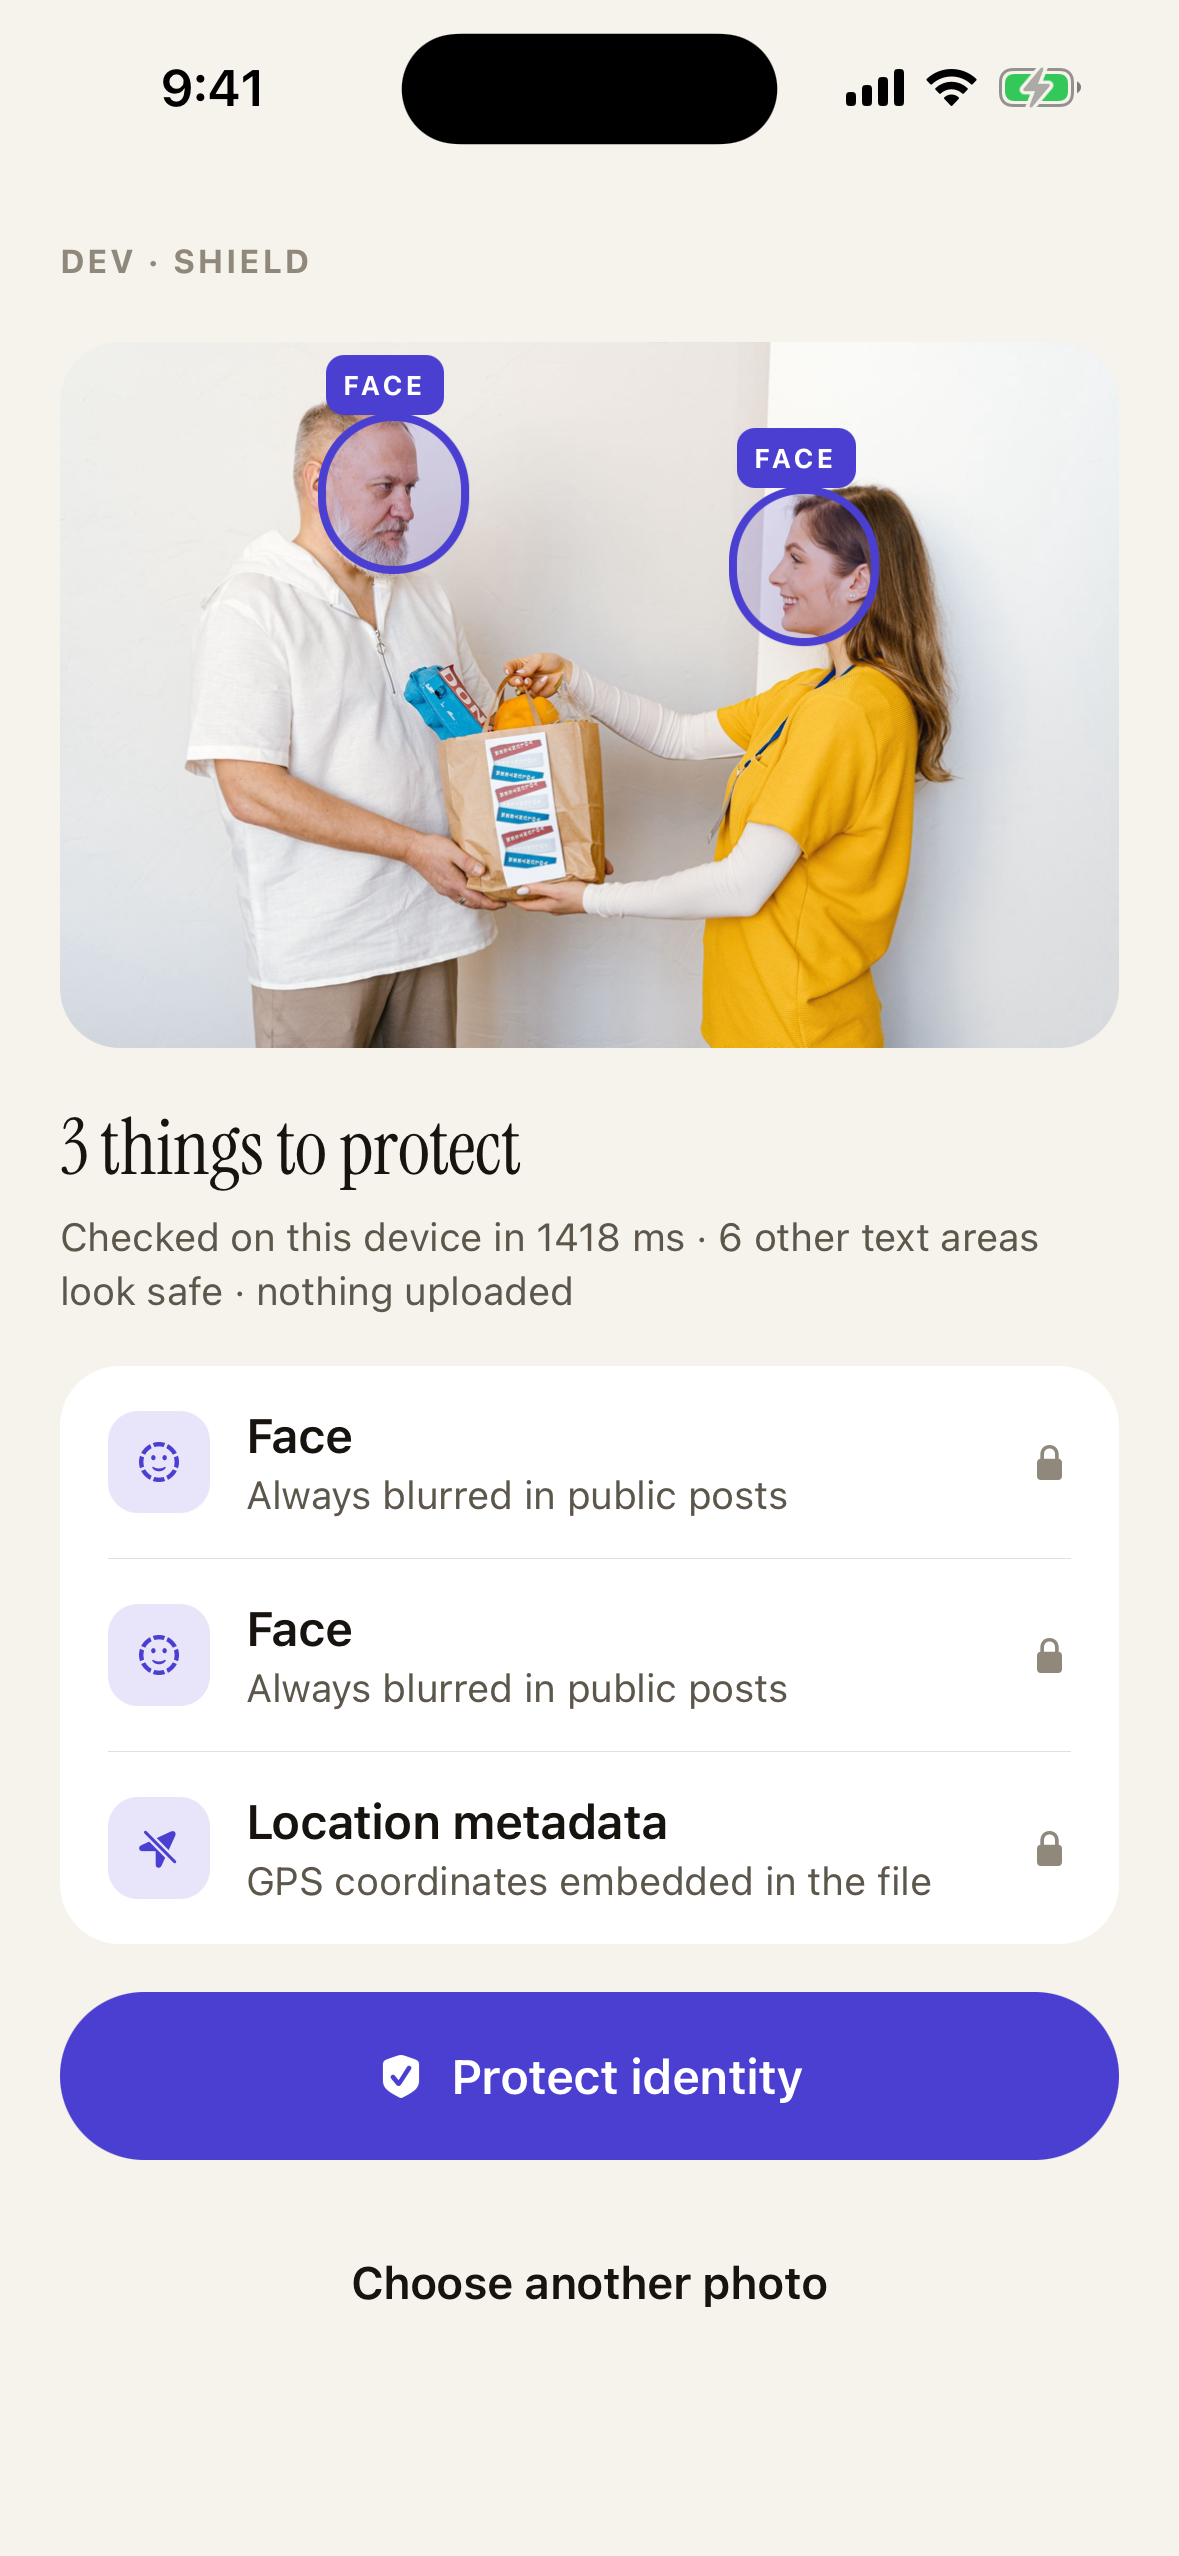
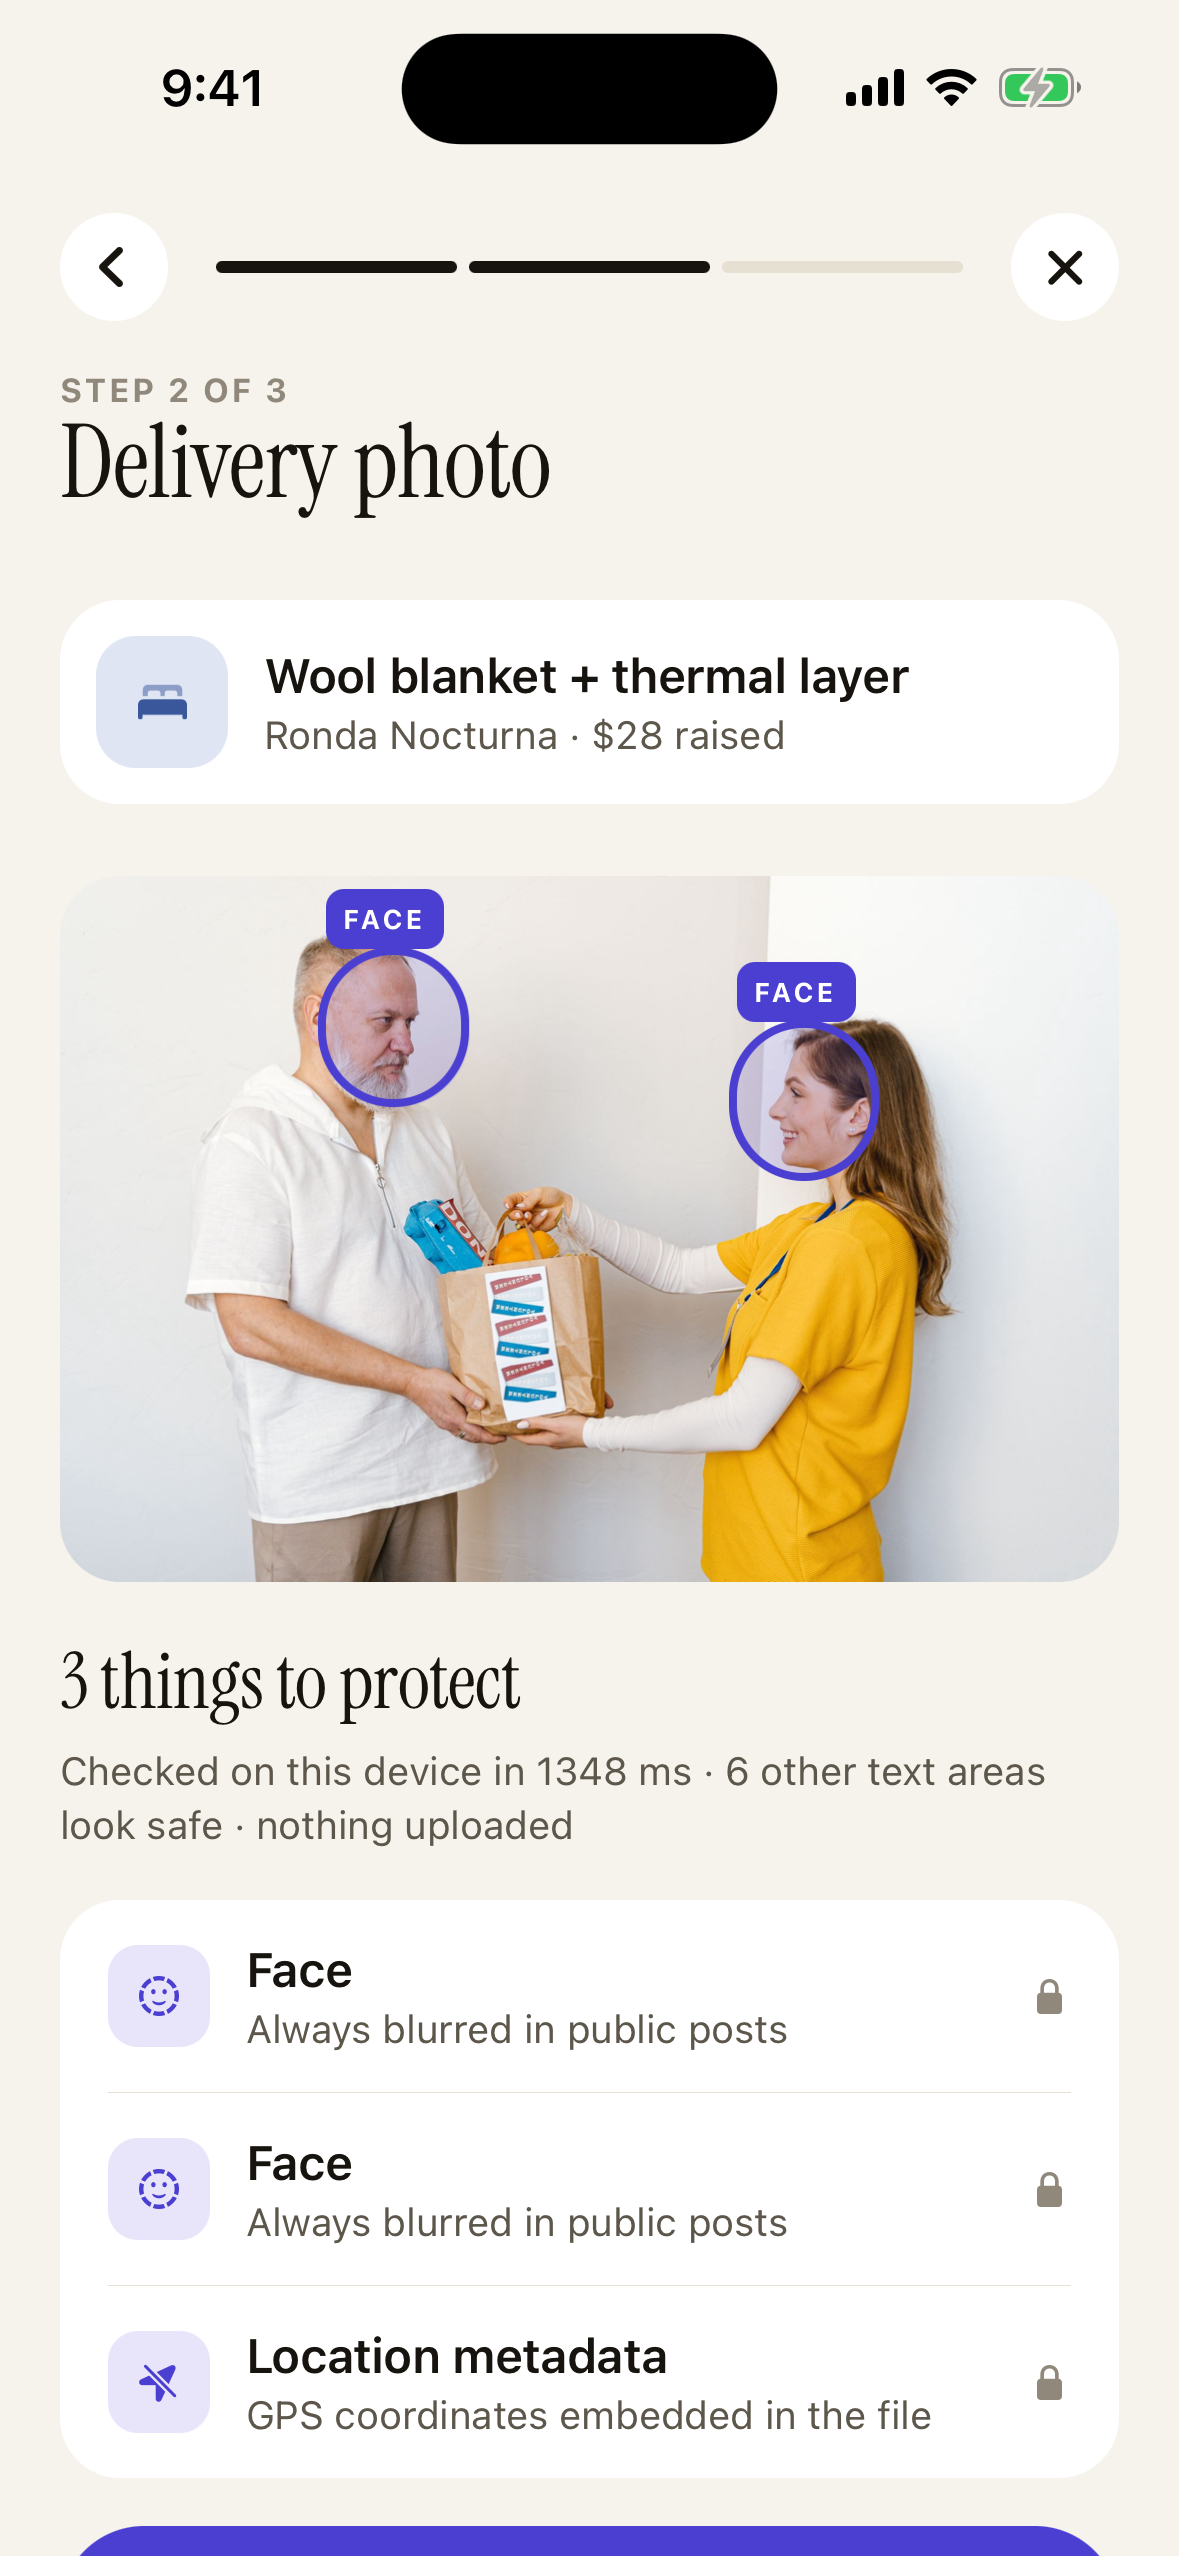
Devpost gallery images; real-flow Privacy Shield screenshots; dev photo param for proof flow

diff --git a/src/app/nonprofit/proof/[id].tsx b/src/app/nonprofit/proof/[id].tsx
@@ -1,5 +1,6 @@
 import { router, useLocalSearchParams } from 'expo-router';
-import { useState } from 'react';
+import { Asset } from 'expo-asset';
+import { useEffect, useState } from 'react';
 import { KeyboardAvoidingView, ScrollView, StyleSheet, TextInput, View } from 'react-native';
 import Animated, { FadeIn, FadeInDown, ZoomIn } from 'react-native-reanimated';
 import { useSafeAreaInsets } from 'react-native-safe-area-context';
@@ -22,7 +23,7 @@ import { color, font, radius, space } from '@/theme/tokens';
 const TITLES = ['Receipt', 'Delivery photo', 'Note & post'];
 
 export default function PostProof() {
-  const { id } = useLocalSearchParams<{ id: string }>();
+  const { id, devPhoto, auto } = useLocalSearchParams<{ id: string; devPhoto?: string; auto?: string }>();
   const cause = useCause(id);
   const postProof = useStore((s) => s.postProof);
   const insets = useSafeAreaInsets();
@@ -37,6 +38,17 @@ export default function PostProof() {
     })),
   );
   const [photo, setPhoto] = useState<PickedPhoto | null>(null);
+
+  // Dev/QA only: ?devPhoto=1 opens the photo step with the bundled demo photo (no picker taps).
+  useEffect(() => {
+    if (!__DEV__ || !devPhoto) return;
+    Asset.fromModule(require('@/assets/demo/delivery-with-gps.jpg'))
+      .downloadAsync()
+      .then((a) => {
+        setStep(1);
+        setPhoto({ uri: a.localUri ?? a.uri, width: a.width ?? 2000, height: a.height ?? 1333, hasGPS: true });
+      });
+  }, [devPhoto]);
   const [safe, setSafe] = useState<{ uri: string; report: PhotoReport } | null>(null);
   const [note, setNote] = useState('Delivered today — everything on the list. Thank you to everyone who chipped in.');
   const [confirmed, setConfirmed] = useState(false);
@@ -190,6 +202,7 @@ export default function PostProof() {
                 height={photo.height}
                 pickerHasGPS={photo.hasGPS}
                 onRetake={() => setPhoto(null)}
+                autoProtectMs={__DEV__ && auto ? Number(auto) : undefined}
                 onDone={(out) => {
                   setSafe(out);
                   setPhoto(null);

diff --git a/scripts/video/gallery.py b/scripts/video/gallery.py
@@ -1,0 +1,49 @@
+"""Devpost gallery images (1920x1080): a screenshot framed on paper with a serif headline."""
+import sys
+from pathlib import Path
+
+from PIL import Image, ImageDraw, ImageFilter
+
+sys.path.insert(0, str(Path(__file__).parent))
+import cards  # noqa: E402
+
+ROOT = Path(__file__).resolve().parents[2]
+SHOTS = ROOT / "submission/screenshots"
+OUT = ROOT / "submission/gallery"
+
+ITEMS = [
+    ("01-home.png", "Real needs", "Give to something real.", "Small, specific needs from verified nonprofits."),
+    ("03-cause-budget.png", "Transparency", "What it pays for. Who verified it. What’s left.", "Every cause follows the money in four steps."),
+    ("06-shield-review.png", "Privacy Shield", "Faces and location found on the phone.", "Apple Vision, before anything is posted."),
+    ("06b-shield-protected.png", "Privacy Shield", "Protected before it’s posted.", "Faces blurred, metadata stripped, nothing uploaded."),
+    ("08-proof.png", "Proof", "It got there.", "Receipt, leftover and a privacy-safe photo."),
+]
+
+
+def frame(shot, label, headline, sub, out):
+    W, H = 1920, 1080
+    img = Image.new("RGBA", (W, H), cards.PAPER + (255,))
+    ph = 960
+    pw = round(ph * 1179 / 2556)
+    x, y = 250, (H - ph) // 2
+    shadow = Image.new("RGBA", (pw + 160, ph + 160), (0, 0, 0, 0))
+    ImageDraw.Draw(shadow).rounded_rectangle((80, 104, 80 + pw, 104 + ph), 60, fill=(59, 47, 26, 70))
+    img.alpha_composite(shadow.filter(ImageFilter.GaussianBlur(34)), (x - 80, y - 80))
+    screen = Image.open(shot).convert("RGBA").resize((pw, ph), Image.LANCZOS)
+    mask = Image.new("L", (pw * 4, ph * 4), 0)
+    ImageDraw.Draw(mask).rounded_rectangle((0, 0, pw * 4 - 1, ph * 4 - 1), 60 * 4, fill=255)
+    img.paste(screen, (x, y), mask.resize((pw, ph), Image.LANCZOS))
+    cap_x = x + pw + 150
+    panel = OUT / "_cap.png"
+    cards.caption_panel(panel, label, headline, sub, width=W - cap_x - 120)
+    img.alpha_composite(Image.open(panel), (cap_x, 0))
+    panel.unlink()
+    img.convert("RGB").save(out, quality=92)
+
+
+if __name__ == "__main__":
+    OUT.mkdir(parents=True, exist_ok=True)
+    for i, (shot, label, headline, sub) in enumerate(ITEMS, 1):
+        if (SHOTS / shot).exists():
+            frame(SHOTS / shot, label, headline, sub, OUT / f"gallery-{i:02d}.jpg")
+    print("gallery written to", OUT)
